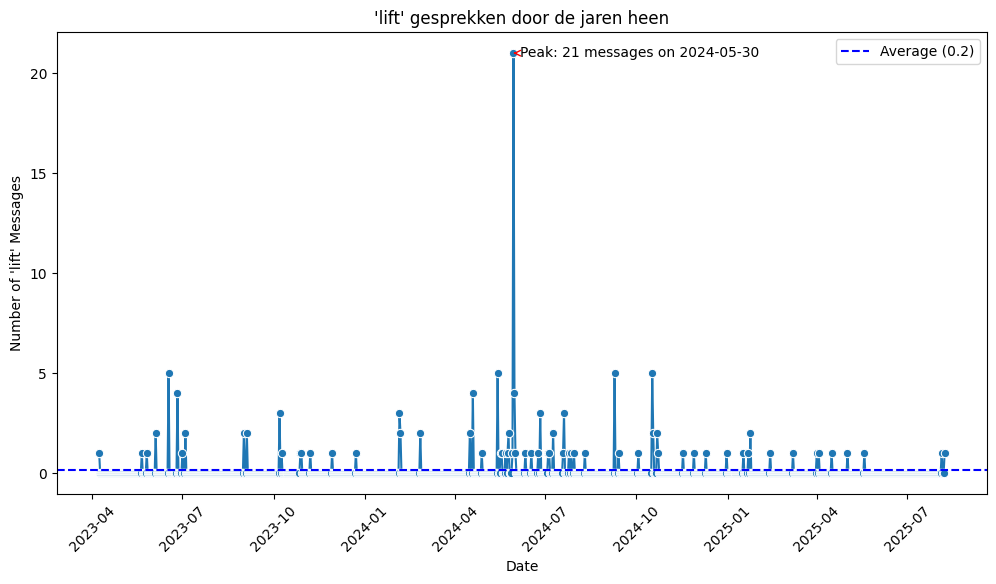
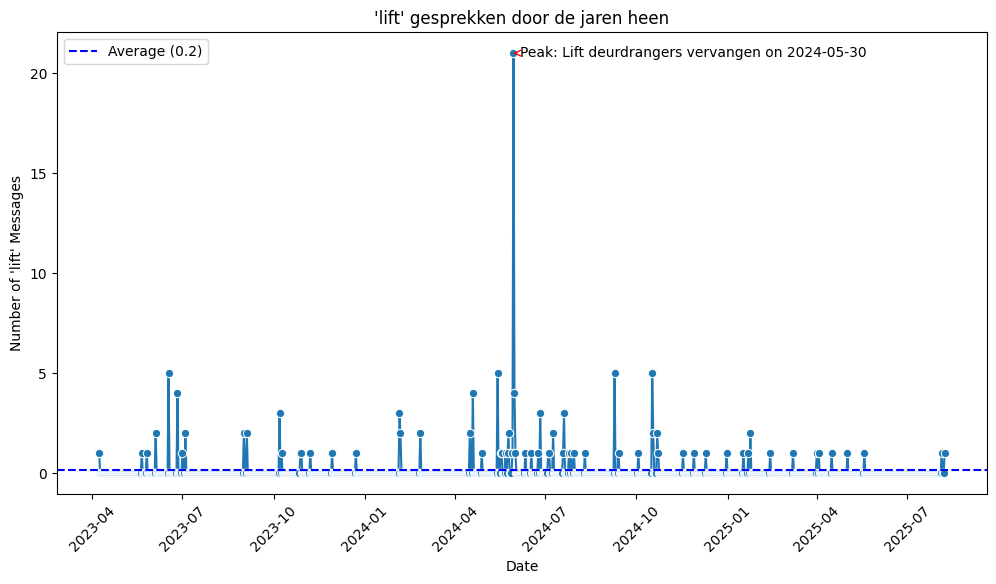
Updated img wk2

Changed region(s): [[0.5602, 0.0616, 0.996, 0.1233], [0.0622, 0.0616, 0.2179, 0.1233]]

diff --git a/src/wa_analyzer/apartment_community_wk2.py b/src/wa_analyzer/apartment_community_wk2.py
@@ -78,7 +78,7 @@ class MessageAnalysis:
         avg_count = trend_df["count"].mean()
         plt.axhline(y=avg_count, color="blue", linestyle="--", linewidth=1.5, label=f"Average ({avg_count:.1f})")
         plt.annotate(
-            f"Peak: {max_count} messages on {max_date}",
+            f"Peak: Lift deurdrangers vervangen on {max_date}",
             xy=(max_row["timestamp"], max_count),
             xytext=(max_row["timestamp"] + pd.Timedelta(days=7), max_count),
             arrowprops=dict(arrowstyle="->", color="red"),
